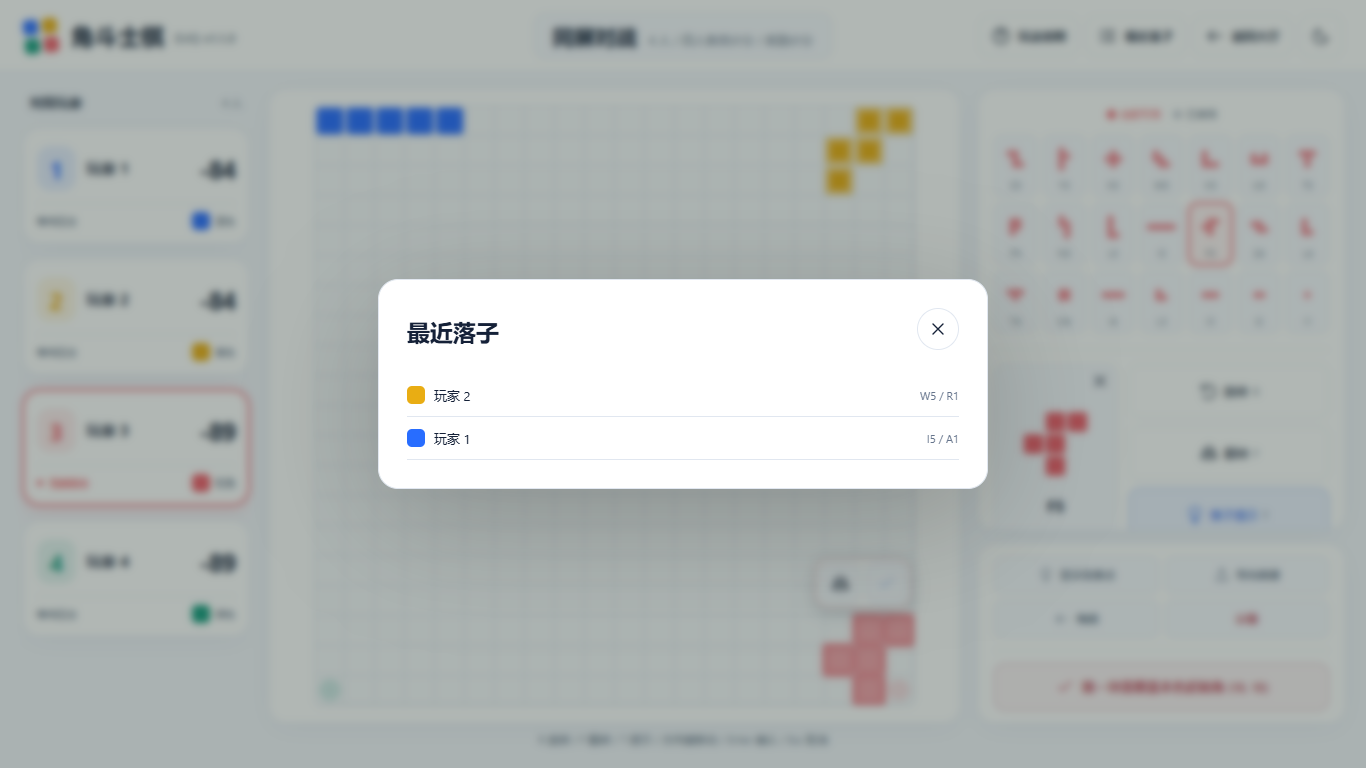
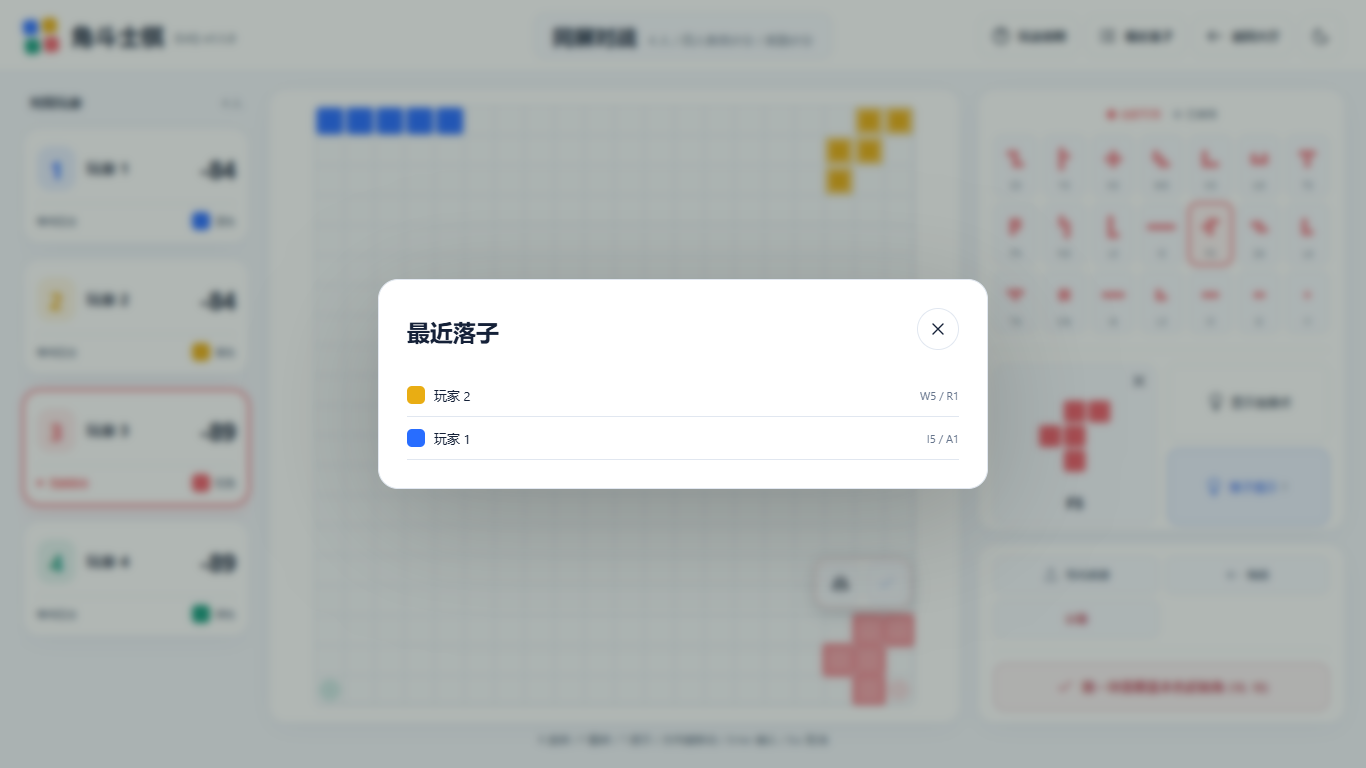
feat: simplify match actions and remove home decorative slogans

diff --git a/public/game.css b/public/game.css
@@ -420,7 +420,7 @@ body[data-screen="game"] #app {
   .game-shell-v2 .selection-preview .selected-piece {height:100%; padding:22px 9px 9px}
   .game-shell-v2 .selected-piece-art {height:auto; flex:1; min-height:0}
   .game-shell-v2 .selected-piece-art svg {max-width:none; min-height:0}
-  .game-shell-v2 .transform-tools {align-self:stretch; grid-template-rows:repeat(3,minmax(44px,1fr))}
+  .game-shell-v2 .transform-tools {align-self:stretch; grid-template-rows:repeat(2,minmax(44px,1fr))}
   .game-shell-v2 .transform-tools .tool-button {min-height:44px}
   .game-shell-v2 .auxiliary-panel {border-radius:14px}
 }
@@ -431,4 +431,29 @@ body[data-screen="game"] #app {
   .game-shell-v2 .auxiliary-panel {padding:10px 14px; border-radius:14px}
   .game-shell-v2 .auxiliary-panel .auxiliary-actions .text-button {min-height:34px}
   .game-shell-v2 .auxiliary-panel .commit-section {padding-top:8px; margin-top:8px}
+}
+
+/* Center the match summary independently of unequal brand/navigation widths. */
+.match-header {grid-template-columns:minmax(0,1fr) auto minmax(0,1fr)}
+.match-context {justify-self:center; text-align:center}
+.game-shell-v2 .selection-tools {grid-template-columns:repeat(2,minmax(0,1fr)); align-items:stretch}
+.game-shell-v2 .selection-preview {width:100%; aspect-ratio:1; align-self:start}
+.game-shell-v2 .selection-preview .selected-piece {height:100%; padding:22px 9px 9px}
+.game-shell-v2 .selected-piece-art {height:auto; flex:1; min-height:0}
+.game-shell-v2 .selected-piece-art svg {max-width:none; min-height:0}
+.game-shell-v2 .transform-tools {align-self:stretch; grid-template-rows:repeat(2,minmax(44px,1fr))}
+@media (max-width:1200px) and (min-width:761px) {
+  .match-header .text-button>span {display:none}
+}
+@media (max-width:760px) {
+  .match-header {grid-template-columns:minmax(0,1fr) auto}
+  .match-context {justify-self:stretch; text-align:center}
+}
+@media (min-width:600px) and (max-height:560px) and (orientation:landscape) {
+  .match-header {display:grid; grid-template-columns:minmax(0,1fr) minmax(0,2fr) minmax(0,1fr)}
+  .match-context {grid-column:2; grid-row:1; justify-self:stretch; max-width:none; text-align:center}
+  .game-shell-v2.is-finished {padding-bottom:8px}
+  .game-shell-v2.is-finished .game-layout {grid-template-columns:120px minmax(0,1fr) 240px}
+  .game-shell-v2.is-finished .controls-column {display:flex; position:static; width:auto}
+  .game-shell-v2.is-finished .close-pieces {display:none}
 }

diff --git a/docs/UI_V2.md b/docs/UI_V2.md
@@ -11,7 +11,7 @@
 1. 将原来的顶部玩家卡片与两栏布局改成左侧玩家、中间棋盘、右侧选子/操作三栏；顶部集中显示真实玩法、人数、计分方式和联机房间信息。
 2. 左侧卡片从规则引擎计算并显示真实得分，保留颜色、当前回合、思考、离线、认输、结束、双色合计、公共绿和组队信息；按后续反馈移除身份副标识与剩余格数文案。
 3. 右侧保留21种真实 SVG 棋形。放大预览与落子姿态使用同一状态，型号居中显示在棋形下方，省去数量、颜色和角度等副文案。
-4. 旋转、翻转、落子提示纵向排列，提示支持T键。确认按钮合并合法性反馈，合法时显示确认、非法时显示原因，网络等待时禁用。辅助操作在右栏，日志由顶部按钮打开弹窗。
+4. 预览旁仅保留连接点与落子提示，提示支持T键；旋转、翻转通过棋盘与快捷键操作。确认按钮合并合法性反馈，合法时显示确认、非法时显示原因，网络等待时禁用。辅助操作在右栏，日志由顶部按钮打开弹窗。
 5. 棋盘容器由 CSS 分配可用空间，再由 ResizeObserver 取实际宽高的较小值设置正方形 SVG；600×600 viewBox 和逻辑坐标不变。
 6. 短横屏（宽≥600、视口高≤560且横向）使用两栏状态/棋盘与操作抽屉，底部固定关键操作。抽屉开启时背景 inert、焦点限制在抽屉内，Esc 返回选子按钮；选择或取得建议后可直接回棋盘。手机竖屏保留自然滚动与固定操作栏。
 7. 页面重绘恢复已有控制焦点；同局面SSE更新继续等到拖动结束再重绘。窗口旋转关闭旧抽屉，重新适配棋盘。
@@ -20,7 +20,9 @@
 
 后续操作区精简：移除选子标题和库存比例；可用/已使用图例居中，放大棋子仅保留正下方居中的型号。快捷键说明置于页面底部；日志按钮位于玩法说明右侧，弹窗展示完整行动历史并接收联机更新。选择、变换、取得建议后恢复棋盘焦点，修复鼠标选子后Enter只会再次激活棋子按钮的问题；输入框和弹窗保留正常键盘行为，重复Enter不重复提交。品牌和网页标题统一使用项目实际版本v1.1.0，版本元数据由检查脚本与package.json核对，删除保存文案与页脚版本。
 
-本轮布局与落子交互：玩家颜色移到回合状态后面；竖屏按棋盘、拼图与操作、玩家席位的顺序排列，选子保持页面滚动位置，预览卡片和变换按钮平分行宽，预览保持正方形。连接点、导出、悔棋、认输和确认独立成另一张卡片。待落拼图旁新增跟随移动的镜像、打勾按钮，靠近棋盘边缘时自动换侧并限制在盘内，非法落点的打勾禁用。结果改为每局自动打开一次的弹窗，可关闭查看棋盘、通过“查看结果”再次打开；关闭后主题或联机状态刷新不会反复弹出。“再来一局”在弹窗、主按钮和手机操作栏均可用，联机仍由房主发起。
+本轮布局与落子交互：玩家颜色移到回合状态后面；竖屏按棋盘、拼图与操作、玩家席位的顺序排列，选子保持页面滚动位置，预览卡片和变换按钮平分行宽，预览保持正方形。连接点、导出、悔棋、认输和确认独立成另一张卡片。待落拼图旁新增跟随移动的镜像、打勾按钮，靠近棋盘边缘时自动换侧并限制在盘内，非法落点的打勾禁用。结果改为每局自动打开一次的弹窗，可关闭查看棋盘；关闭后主题或联机状态刷新不会反复弹出。“再来一局”在弹窗与主确认位置可用，联机仍由房主发起。
+
+本轮进一步精简：顶部对局信息始终在视口水平中央；所有尺寸的预览框都保持正方形，与右侧按钮等宽。删除预览旁的旋转、翻转按钮，保留棋盘上的点击旋转、浮动镜像按钮与R/F快捷键，连接点置于提示上方。结束后不再显示悔棋、查看结果和手机底部操作栏；短横屏结束后直接显示侧边操作区，保留导出和主确认位置的“再来一局”。大厅删除英文标语、卡片英文副标题和LET’S PLAY装饰标题。
 
 ## 文件清单
 
@@ -81,4 +83,4 @@
 
 ## 验证边界
 
-已在当前主机的 Edge/Chromium 中验证；实体安卓/iOS Safari、其他浏览器实机触感与生产域名部署验收尚未执行。手机横屏受屏幕高度限制，棋子在抽屉内局部滚动，独立操作卡片和主确认按钮保持可见。未发现阻塞自动化验收的功能问题。
+已在当前主机的 Edge/Chromium 中验证；实体安卓/iOS Safari、其他浏览器实机触感与生产域名部署验收尚未执行。手机横屏进行中时棋子在抽屉内局部滚动，结束后侧边操作区直接显示，主确认按钮保持可见。未发现阻塞自动化验收的功能问题。
